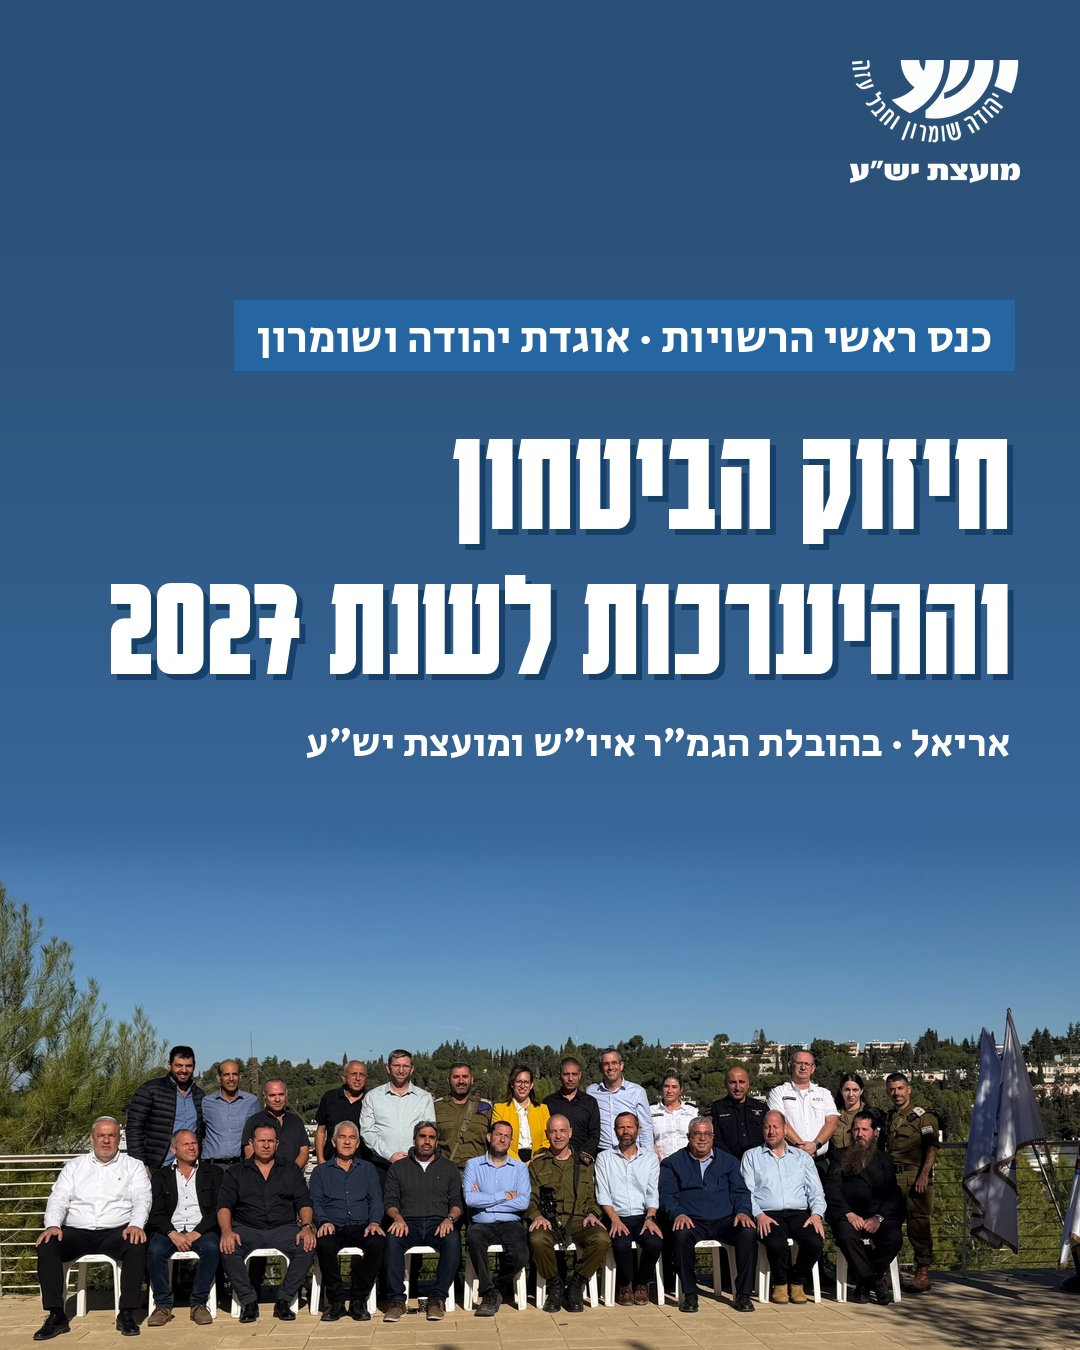
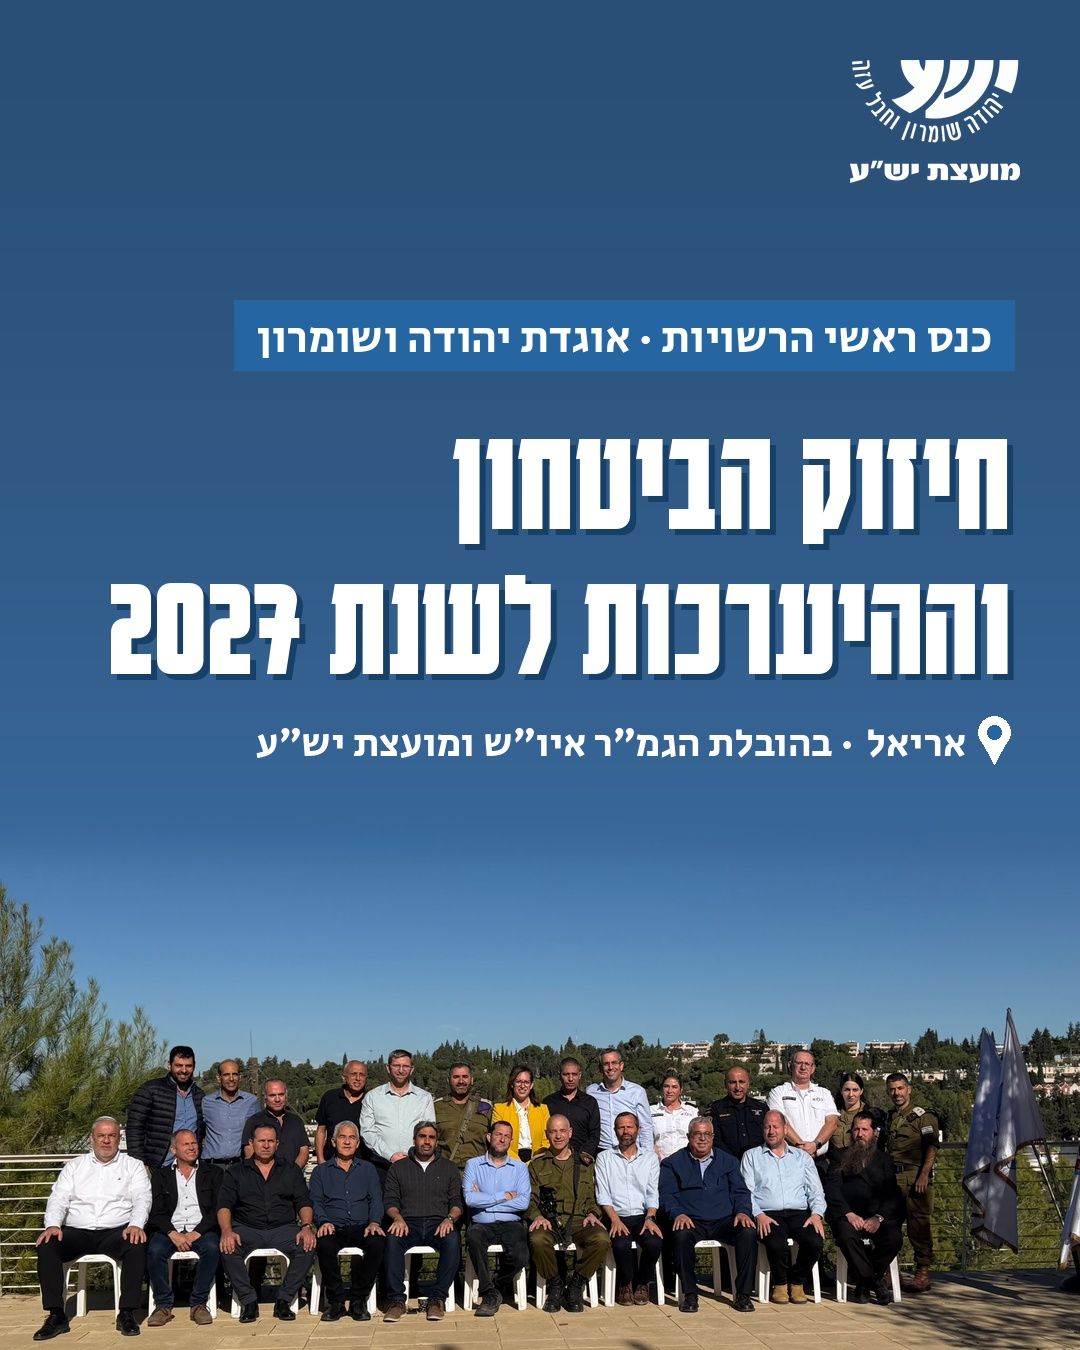
Conference post: location pin for Ariel
Claude-Session: https://claude.ai/code/session_01RS3QK6pAd3YhyAuXZSJjH1

Changed region(s): [[0.2444, 0.5289, 0.9472, 0.56]]

diff --git a/content-kit/yesha/2026-11-post-heads-conference-2027/make.py b/content-kit/yesha/2026-11-post-heads-conference-2027/make.py
@@ -26,5 +26,10 @@ d.rectangle((R - lw - 40, 300, R + 4, 370), fill=BLUE); d.text((R - 18, 307), la
 fh = F(KB, 150)
 for i, l in enumerate(['חיזוק הביטחון', 'וההיערכות לשנת 2027']):
     y = 400 + i * 145; d.text((R + 6, y + 6), l, font=fh, fill=NAVY, anchor='ra', direction='rtl'); d.text((R, y), l, font=fh, fill=WHITE, anchor='ra', direction='rtl')
-d.text((R, 715), 'אריאל · בהובלת הגמ״ר איו״ש ומועצת יש״ע', font=F(SEC, 40), fill=WHITE, anchor='ra', direction='rtl')
+# location pin icon + 'אריאל', then the rest of the line
+px, py = R - 16, 742
+d.ellipse((px - 16, py - 26, px + 16, py + 6), fill=WHITE); d.polygon([(px - 14, py - 4), (px + 14, py - 4), (px, py + 22)], fill=WHITE); d.ellipse((px - 7, py - 17, px + 7, py - 3), fill=BLUE)
+f40 = F(SEC, 40); d.text((R - 44, 715), 'אריאל', font=f40, fill=WHITE, anchor='ra', direction='rtl')
+aw = d.textlength('אריאל', font=f40, direction='rtl')
+d.text((R - 44 - aw - 14, 715), '· בהובלת הגמ״ר איו״ש ומועצת יש״ע', font=f40, fill=WHITE, anchor='ra', direction='rtl')
 im.convert('RGB').save(HERE + '/yesha-post-conference-1080x1350.jpg', quality=95); print(top, d.textlength('וההיערכות לשנת 2027', font=fh, direction='rtl'))
